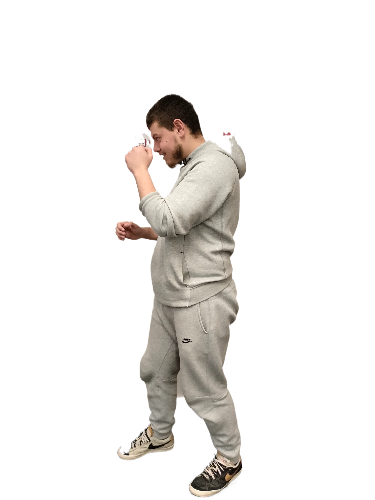
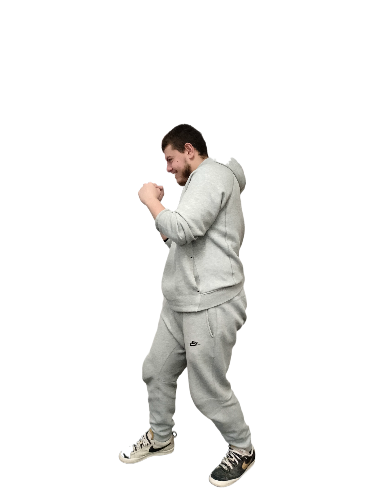
Increase height of characters and added more animations and fixed small bugs

Changed region(s): [[0.2933, 0.18, 0.704, 1.0]]

diff --git a/src/game/Game.java b/src/game/Game.java
@@ -19,6 +19,7 @@ public class Game {
     private static final String[] STUDENT_IMAGES2 = {"data/Ahmad1.png", "data/Ahmad2.png"};
     private int currentImageIndex = 0;
     private  int currentImageIndex2 = 0;// To track the current image index
+    private boolean canJump = true; // Flag to track if the jump is allowed
     private DynamicBody student; // Student body
     private DynamicBody student2;
 
@@ -39,8 +40,8 @@ public class Game {
         platform1.setPosition(new Vec2(-8, -4f));
 
         //make a character (with an overlaid image)
-        Shape studentShape = new BoxShape(1, 3);
-        Shape studentShape2 = new BoxShape(1, 4);
+        Shape studentShape = new BoxShape(2, 5);
+        Shape studentShape2 = new BoxShape(2, 7);
         student = new DynamicBody(world, studentShape);
         student2 = new DynamicBody(world, studentShape2);
         student.setPosition(new Vec2(4, -5));
@@ -63,8 +64,8 @@ public class Game {
                     currentImageIndex = (currentImageIndex + 1) % STUDENT_IMAGES.length;
                     currentImageIndex2 = (currentImageIndex2 + 1) % STUDENT_IMAGES2.length;
                     // Add the new image
-                    student.addImage(new BodyImage(STUDENT_IMAGES[currentImageIndex], 7));
-                    student2.addImage(new BodyImage(STUDENT_IMAGES2[currentImageIndex2], 9));
+                    student.addImage(new BodyImage(STUDENT_IMAGES[currentImageIndex], 12));
+                    student2.addImage(new BodyImage(STUDENT_IMAGES2[currentImageIndex2], 16));
                 });
             }
         }, 0, 500); // Schedule the task to run every 1000 milliseconds (1 second)
@@ -87,32 +88,50 @@ public class Game {
                 if (key == KeyEvent.VK_LEFT) {
                     student.setLinearVelocity(new Vec2(-10, student.getLinearVelocity().y));
                     student.removeAllImages();
-                    student.addImage(new BodyImage("data/Talip2.png", 7));
+                    student.addImage(new BodyImage("data/Talip2.png", 12));
                 } else if (key == KeyEvent.VK_RIGHT) {
                     student.setLinearVelocity(new Vec2(10, student.getLinearVelocity().y));
                 } else if (key == KeyEvent.VK_UP) {
-                    student.setLinearVelocity(new Vec2(student.getLinearVelocity().x, 90));
-                    student.removeAllImages();
-                    student.addImage(new BodyImage("data/TalipJump.png", 5));
+                    if (canJump) {
+                        student.setLinearVelocity(new Vec2(student.getLinearVelocity().x, 90));
+                        student.removeAllImages();
+                        student.addImage(new BodyImage("data/TalipJump.png", 8));
+                        canJump = false;
+
+                        // Reset the flag after a certain time has passed
+                        Timer jumpTimer = new Timer();
+                        jumpTimer.schedule(new TimerTask() {
+                            @Override
+                            public void run() {
+                                canJump = true;
+                            }
+                        }, 2000); // Allow jump again after 4 second
+                    }
                 } else if (key == KeyEvent.VK_DOWN) {
                     student.setLinearVelocity(new Vec2(student.getLinearVelocity().x, -20));
                     student.removeAllImages();
-                    student.addImage(new BodyImage("data/TalipJump.png", 5));
+                    student.addImage(new BodyImage("data/TalipJump.png", 8));
                 } else if (key == KeyEvent.VK_SPACE) {
                     student.removeAllImages();
-                    student.addImage(new BodyImage("data/Talip3.png", 7));
+                    student.addImage(new BodyImage("data/Talip3.png", 12));
                 } else if (key == KeyEvent.VK_W){
-                    student2.setLinearVelocity(new Vec2(student.getLinearVelocity().x, 10));
+                    student2.setLinearVelocity(new Vec2(student2.getLinearVelocity().x, 20));
                     student2.removeAllImages();
-                    student2.addImage(new BodyImage("data/AhmadJump.png", 8));
+                    student2.addImage(new BodyImage("data/AhmadJump.png", 14));
                 } else if (key == KeyEvent.VK_D) {
-                    student2.setLinearVelocity(new Vec2(10, student.getLinearVelocity().y));
+                    student2.setLinearVelocity(new Vec2(10, student2.getLinearVelocity().y));
                 } else if (key == KeyEvent.VK_A) {
                     student2.setLinearVelocity(new Vec2(-10, student2.getLinearVelocity().y));
                 } else if (key == KeyEvent.VK_S) {
                     student2.setLinearVelocity(new Vec2(student.getLinearVelocity().x, -20));
                     student2.removeAllImages();
-                    student2.addImage(new BodyImage("data/AhmadJump.png", 8));
+                    student2.addImage(new BodyImage("data/AhmadJump.png", 14));
+                } else if (key == KeyEvent.VK_E) {
+                    student2.removeAllImages();
+                    student2.addImage(new BodyImage("data/AhmadPunch1.png", 15));
+                } else if (key == KeyEvent.VK_Q) {
+                    student2.removeAllImages();
+                    student2.addImage(new BodyImage("data/AhmadPunch2.png", 15));
                 }
             }
 
@@ -123,6 +142,10 @@ public class Game {
                     student.setLinearVelocity(new Vec2(0, student.getLinearVelocity().y));
                 } else if (key == KeyEvent.VK_UP || key == KeyEvent.VK_DOWN) {
                     student.setLinearVelocity(new Vec2(student.getLinearVelocity().x, 0));
+                } else if (key == KeyEvent.VK_W || key == KeyEvent.VK_S) {
+                    student2.setLinearVelocity(new Vec2(student2.getLinearVelocity().x, 0));
+                } else if (key == KeyEvent.VK_A || key == KeyEvent.VK_D ) {
+                    student2.setLinearVelocity(new Vec2(0, student2.getLinearVelocity().y));
                 }
             }
         });
@@ -135,7 +158,7 @@ public class Game {
         frame.setVisible(true);
 
         //optional: uncomment this to make a debugging view
-        // JFrame debugView = new DebugViewer(world, 500, 500);
+        JFrame debugView = new DebugViewer(world, 500, 500);
 
         // start our game world simulation!
         world.start();
